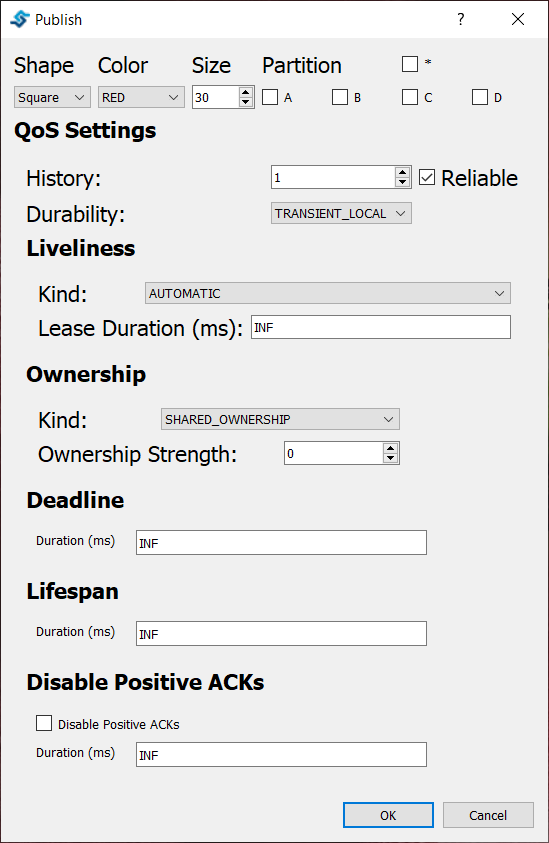
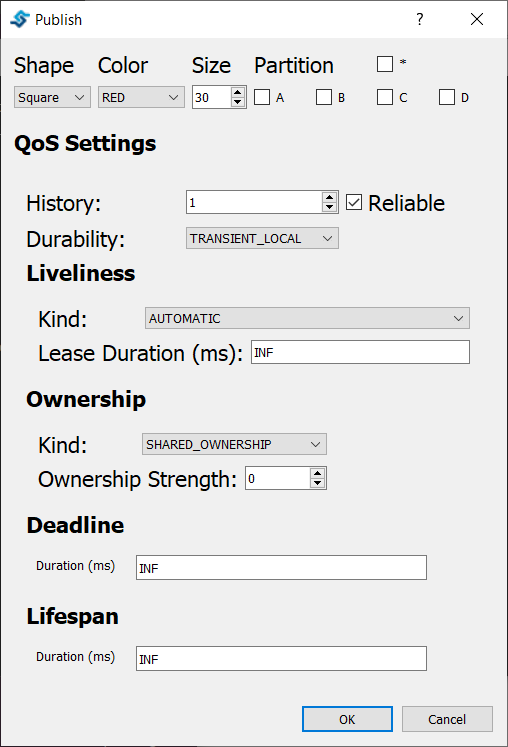
Refs #5462 Requested changes.

diff --git a/docs/firststept.rst b/docs/firststept.rst
@@ -52,10 +52,7 @@ There are multiple parameters that the user can define in this menu:
 - **Lifespan:** The Lifespan Qos determines the duration while the sample is still valid. When a sample's lifespan expires, it will be removed from publisher and subscriber histories.
 
 
-- **Disable Positive ACKs:** If enabled, writers don't expect positive ACKNACK messages from the subscriber. Instead they consider samples to be delivered after the indicated duration if no negative ACKNACK was received.
-
-
-Note that using Disable Positive ACKs and Lifespan QoS will not have any visual effect.
+Note that using Lifespan QoS will not have any visual effect.
 
 Subscribing to a Shape
 ----------------------
@@ -73,7 +70,7 @@ This menu is very similar to the Publication menu but the user cannot change the
 
 - **Content Based Filter:** This filter draws a rectangle in the shapes window. Only the instances that are included in this rectangle are accepted. The rest of them are ignored. The user can dynamically resize and move this content filter.
 
-Take into acoount that Disabling positive ACKs and modify Lifespan will not have any visual effect.
+Note that using Lifespan QoS will not have any visual effect.
 
 Other Options
 -------------
